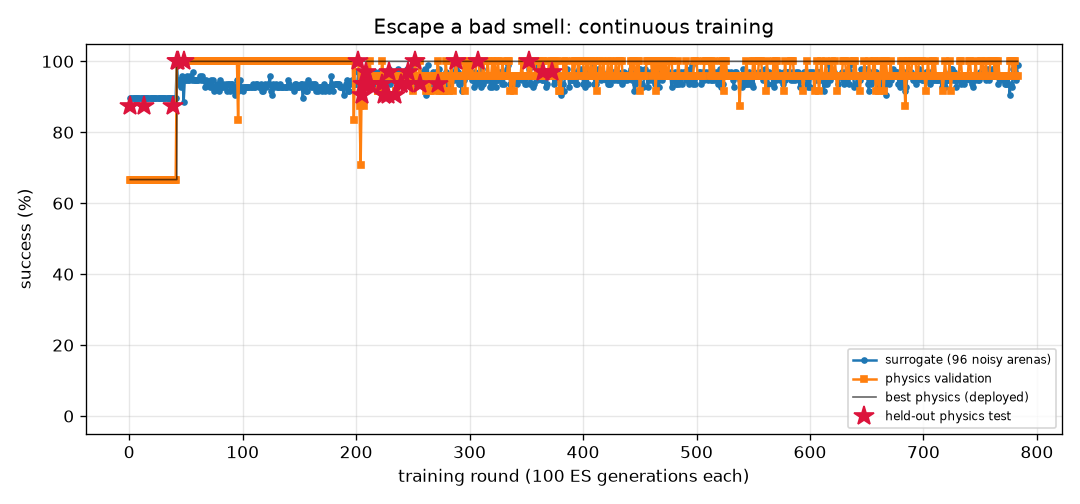
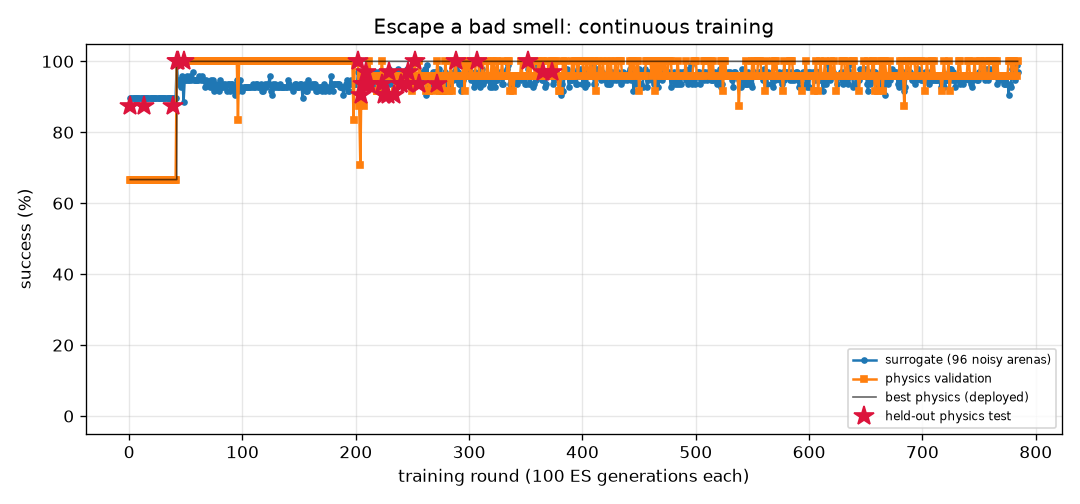
FlyLab: continuous training progress
- walk_forward: optimal, physics val 100% of 24, round 288
- turn: optimal, physics val 100% of 24, round 866
- goto: optimal, physics val 100% of 24, round 236
- odor_seek: optimal, physics val 100% of 24, round 195
- odor_avoid: optimal, physics val 100% of 24, round 784
- light_seek: optimal, physics val 100% of 24, round 430
- light_avoid: optimal, physics val 100% of 24, round 521

diff --git a/projects/09_flylab/training/light_avoid/REPORT.md b/projects/09_flylab/training/light_avoid/REPORT.md
@@ -1,14 +1,14 @@
 # Hide from light (`light_avoid`) — training report
 
-*Auto-generated by `train_brains.py`, last updated 2026-11-05T10:44:09.*
+*Auto-generated by `train_brains.py`, last updated 2026-11-05T11:44:16.*
 
 ![curve](curve.png)
 
 | | |
 |---|---|
-| rounds | 518 |
-| ES generations | 51800 |
-| physics runs | 12704 |
+| rounds | 521 |
+| ES generations | 52100 |
+| physics runs | 12776 |
 | status | **optimal** |
 | best brain | round 159: physics validation **100%** on 24 arenas, surrogate 100% |
 | held-out physics test | **100%** on 32 unseen arenas (95% CI 89%-100%) (errors: [14.4, 56.1, 58.0, 57.9, 57.5, 14.0, 14.4, 56.6, 56.8, 13.3, 14.1, 56.6, 57.6, 13.1, 57.3, 55.9, 57.2, 55.0, 55.2, 53.9, 55.2, 12.4, 53.8, 53.7, 14.1, 13.7, 55.0, 57.8, 56.2, 13.1, 52.8, 56.5]) |
@@ -17,9 +17,6 @@ Physics error per arena: mm gained away from source (> 6 without first approachi
 
 | round | level | gens | sigma | surrogate | physics val | val errors | test | note |
 |---:|---:|---:|---:|---:|---:|---|---:|---|
-| 479 | 3 | 47900 | 0.024 | 100% | 100% | [44.1, 44.7, 44.9, 44.2, 41.9, 44.1, 44.8, 14.5, 39.2, 13.3, 44.1, 41.6, 14.4, 41.6, 45.2, 44.2, 14.2, 42.8, 45.0, 14.4, 43.3, 43.7, 43.6, 41.0] |  | restart from best |
-| 480 | 3 | 48000 | 0.024 | 100% | 100% | [35.3, 34.4, 33.8, 35.5, 35.9, 35.5, 33.4, 14.5, 35.2, 13.2, 33.6, 36.2, 14.4, 34.5, 34.2, 35.4, 14.2, 36.3, 36.5, 14.4, 34.5, 35.4, 32.0, 36.4] |  |  |
-| 481 | 3 | 48100 | 0.024 | 100% | 96% | [55.0, 59.8, 59.6, 55.8, 59.3, 56.0, 58.2, 14.5, 46.1, 13.3, 58.9, 59.2, 14.4, 56.4, 59.7, 55.4, 14.2, 59.8, 60.1, 14.4, 57.7, 59.0, 57.8, 58.5] |  |  |
 | 482 | 3 | 48200 | 0.024 | 100% | 100% | [51.2, 51.8, 51.2, 49.0, 52.7, 48.6, 49.9, 14.5, 12.7, 13.4, 53.1, 52.8, 14.4, 51.9, 51.2, 50.8, 14.2, 52.9, 51.5, 14.4, 50.7, 52.2, 50.0, 52.6] |  |  |
 | 483 | 3 | 48300 | 0.024 | 99% | 100% | [37.9, 40.1, 41.8, 36.8, 35.6, 37.9, 42.5, 14.5, 12.9, 13.4, 25.0, 35.7, 14.4, 33.2, 41.7, 36.8, 14.2, 37.3, 40.7, 14.4, 35.2, 23.6, 41.5, 36.2] |  | restart from best |
 | 484 | 3 | 48400 | 0.024 | 100% | 100% | [54.7, 57.3, 57.3, 55.0, 54.0, 55.1, 57.0, 14.5, 53.4, 13.2, 55.7, 53.6, 14.4, 51.8, 57.2, 55.1, 14.2, 55.1, 57.1, 14.4, 54.5, 55.7, 56.8, 52.5] |  |  |
@@ -57,3 +54,6 @@ Physics error per arena: mm gained away from source (> 6 without first approachi
 | 516 | 3 | 51600 | 0.024 | 100% | 100% | [51.7, 54.0, 53.5, 53.1, 56.3, 51.9, 51.6, 14.5, 54.3, 13.0, 56.2, 56.1, 14.4, 54.7, 53.5, 51.4, 14.2, 56.2, 54.1, 14.4, 52.3, 56.2, 52.0, 55.9] |  |  |
 | 517 | 3 | 51700 | 0.024 | 100% | 100% | [57.4, 61.6, 61.4, 57.9, 61.0, 58.7, 60.1, 14.5, 57.4, 13.0, 60.1, 60.9, 14.4, 58.3, 61.5, 56.9, 14.2, 61.6, 61.9, 14.4, 56.6, 60.6, 59.8, 60.2] |  |  |
 | 518 | 3 | 51800 | 0.024 | 100% | 100% | [52.6, 54.3, 54.0, 52.8, 49.1, 52.6, 54.2, 14.5, 12.7, 13.4, 46.9, 48.5, 14.4, 49.2, 54.2, 52.9, 14.2, 50.5, 53.4, 14.4, 52.4, 52.0, 54.1, 47.5] |  |  |
+| 519 | 3 | 51900 | 0.024 | 99% | 100% | [40.6, 38.3, 41.2, 41.2, 37.1, 40.4, 40.2, 14.5, 12.9, 13.4, 36.1, 36.3, 14.4, 36.2, 38.9, 41.3, 14.2, 36.8, 40.2, 14.4, 40.5, 36.4, 39.8, 33.9] |  | restart from best |
+| 520 | 3 | 52000 | 0.024 | 100% | 100% | [58.0, 60.7, 60.5, 58.1, 59.7, 58.3, 59.4, 14.5, 53.7, 13.3, 59.5, 59.5, 14.4, 57.4, 60.6, 58.0, 14.2, 60.3, 61.0, 14.4, 56.5, 59.1, 59.2, 58.9] |  |  |
+| 521 | 3 | 52100 | 0.024 | 100% | 100% | [44.7, 46.6, 45.9, 47.2, 49.4, 45.0, 44.2, 14.5, 40.9, 13.5, 50.0, 49.7, 14.4, 49.5, 46.1, 46.3, 14.2, 49.3, 46.4, 14.4, 46.9, 50.1, 44.8, 49.6] |  |  |

diff --git a/projects/09_flylab/training/odor_avoid/REPORT.md b/projects/09_flylab/training/odor_avoid/REPORT.md
@@ -1,14 +1,14 @@
 # Escape a bad smell (`odor_avoid`) — training report
 
-*Auto-generated by `train_brains.py`, last updated 2026-11-05T10:54:06.*
+*Auto-generated by `train_brains.py`, last updated 2026-11-05T11:16:24.*
 
 ![curve](curve.png)
 
 | | |
 |---|---|
-| rounds | 783 |
-| ES generations | 78300 |
-| physics runs | 16098 |
+| rounds | 784 |
+| ES generations | 78400 |
+| physics runs | 16122 |
 | status | **optimal** |
 | best brain | round 373: physics validation **100%** on 24 arenas, surrogate 97% |
 | held-out physics test | **97%** on 32 unseen arenas (95% CI 84%-99%) (errors: [62.0, 57.4, 62.6, 61.9, 59.0, 61.6, 56.5, 60.7, 31.7, 60.9, 63.1, 57.1, 61.1, 62.1, 61.5, 60.2, 62.2, 55.2, 62.1, 54.2, 61.3, 62.0, 58.0, 61.9, 59.8, 56.5, 56.3, 56.4, 56.3, 57.7, 61.9, 32.4]) |
@@ -17,7 +17,6 @@ Physics error per arena: mm gained away from source (> 6 without first approachi
 
 | round | level | gens | sigma | surrogate | physics val | val errors | test | note |
 |---:|---:|---:|---:|---:|---:|---|---:|---|
-| 744 | 3 | 74400 | 0.028 | 93% | 96% | [60.3, 52.9, 56.2, 56.8, 61.3, 60.7, 58.8, 25.5, 59.3, 53.8, 57.3, 61.5, 54.5, 56.5, 50.5, 61.4, 61.2, 61.3, 54.5, 53.1, 61.3, 60.8, 57.2, 59.4] |  |  |
 | 745 | 3 | 74500 | 0.028 | 95% | 96% | [61.4, 58.9, 56.4, 59.8, 61.1, 45.3, 61.7, 59.5, 61.4, 50.2, 33.5, 61.9, 50.7, 53.4, 42.3, 61.1, 60.9, 60.0, 49.8, 55.4, 61.2, 48.2, 56.7, 59.8] |  | restart from best |
 | 746 | 3 | 74600 | 0.026 | 96% | 100% | [61.9, 60.4, 56.0, 61.0, 62.2, 62.0, 61.7, 39.3, 62.1, 60.5, 60.0, 61.8, 51.7, 55.9, 19.9, 60.4, 61.6, 61.1, 55.2, 60.1, 61.7, 49.6, 59.8, 44.7] |  |  |
 | 747 | 3 | 74700 | 0.026 | 96% | 96% | [62.8, 60.6, 56.2, 61.3, 62.6, 61.8, 61.6, 51.8, 61.3, 61.6, 62.2, 62.3, 54.7, 56.4, 51.2, 61.4, 62.0, 61.0, 55.4, 59.5, 62.4, 62.4, 56.6, 59.8] |  |  |
@@ -57,3 +56,4 @@ Physics error per arena: mm gained away from source (> 6 without first approachi
 | 781 | 3 | 78100 | 0.026 | 97% | 100% | [61.6, 60.7, 56.3, 60.6, 60.6, 61.7, 62.2, 60.5, 62.2, 43.9, 23.0, 61.8, 49.4, 56.3, 28.3, 61.7, 61.7, 62.0, 49.8, 57.5, 61.9, 55.4, 60.1, 61.8] |  | restart from best |
 | 782 | 3 | 78200 | 0.026 | 95% | 96% | [62.3, 59.7, 56.2, 61.0, 61.4, 62.7, 62.7, 53.2, 62.7, 60.0, 55.6, 62.0, 51.7, 54.8, 43.3, 62.6, 62.2, 62.7, 51.7, 58.2, 61.9, 61.1, 59.5, 63.1] |  |  |
 | 783 | 3 | 78300 | 0.027 | 99% | 96% | [61.2, 59.5, 57.7, 60.1, 61.4, 62.8, 62.2, 36.8, 61.9, 61.5, 61.6, 61.0, 52.1, 58.0, 32.8, 61.4, 61.5, 62.2, 54.5, 55.7, 61.5, 61.2, 60.2, 56.8] |  |  |
+| 784 | 3 | 78400 | 0.025 | 97% | 100% | [61.7, 56.7, 57.4, 56.9, 62.4, 60.8, 61.7, 61.8, 61.8, 61.1, 61.4, 60.8, 52.6, 55.0, 33.1, 61.7, 61.7, 60.9, 52.2, 56.4, 61.2, 62.2, 59.1, 60.0] |  |  |

diff --git a/projects/09_flylab/training/TRAINING.md b/projects/09_flylab/training/TRAINING.md
@@ -1,6 +1,6 @@
 # FlyLab brains — continuous training log
 
-*Auto-generated by `train_brains.py`, last updated 2026-11-05T10:54:06.*
+*Auto-generated by `train_brains.py`, last updated 2026-11-05T11:44:16.*
 
 Every skill has its own brain and its own training process: surrogate ES rounds, physics validation in MuJoCo, keep-the-best selection, and a held-out physics test that is never used for selection. See each skill's report for its full round-by-round history. Mastery is progressive: passing a level (100% physics validation, >=95% surrogate) doubles the validation and test arena sets; a brain is **optimal** once it holds up at level 3 (>=95% of 24 validation arenas) AND scores >=90% on the 32 held-out test arenas. Test columns show 95% Wilson confidence intervals.
 
@@ -10,6 +10,6 @@ Every skill has its own brain and its own training process: surrogate ES rounds,
 | [Turn in place](turn/REPORT.md) | 866 | 86600 | 21030 | 100% | 100% of 24 | 97% of 32 (CI 84-99%) | **optimal** |
 | [Go to a location](goto/REPORT.md) | 236 | 23600 | 5614 | 100% | 100% of 24 | 100% of 32 (CI 89-100%) | **optimal** |
 | [Find food by smell](odor_seek/REPORT.md) | 195 | 19500 | 4110 | 100% | 100% of 24 | 100% of 32 (CI 89-100%) | **optimal** |
-| [Escape a bad smell](odor_avoid/REPORT.md) | 783 | 78300 | 16098 | 97% | 100% of 24 | 97% of 32 (CI 84-99%) | **optimal** |
+| [Escape a bad smell](odor_avoid/REPORT.md) | 784 | 78400 | 16122 | 97% | 100% of 24 | 97% of 32 (CI 84-99%) | **optimal** |
 | [Walk toward light](light_seek/REPORT.md) | 430 | 43000 | 7200 | 100% | 100% of 24 | 100% of 32 (CI 89-100%) | **optimal** |
-| [Hide from light](light_avoid/REPORT.md) | 518 | 51800 | 12704 | 100% | 100% of 24 | 100% of 32 (CI 89-100%) | **optimal** |
+| [Hide from light](light_avoid/REPORT.md) | 521 | 52100 | 12776 | 100% | 100% of 24 | 100% of 32 (CI 89-100%) | **optimal** |
